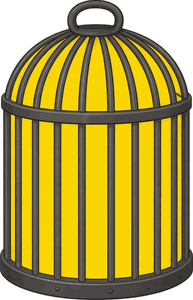
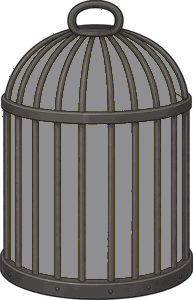
Kooiman-duw: de losse kooi grijs met doorschijnend interieur
De aangeleverde kooi-plaat was grijs met een massief gele vulling tussen de
spaken, en dat paste niet bij de ingebakken kooien van de man (grijs met een
doorschijnend donker interieur). tools/kooi_kleur.py haalt het geel eruit en
maakt er het interieur uit sprites.json van (cage_interior, dark 32,32,38 op
~50% alpha), zodat de kooi grijs is met wat doorzichtigheid tussen de spaken.
De gele bron staat nu in enemies/kooiman/bron/kooi/; de kleine set en de
offline-manifest zijn bijgewerkt.

Claude-Session: https://claude.ai/code/session_01DYQ1poLfdbX45wKY5M9znz

diff --git a/tools/kooi_kleur.py b/tools/kooi_kleur.py
@@ -1,0 +1,47 @@
+#!/usr/bin/env python3
+# De losse kooi-plaat voor de duw-lus (enemies/kooiman/kooi/kooi.png) wordt hier uit de
+# aangeleverde bron (enemies/kooiman/bron/kooi/kooi.png) gemaakt. De bron heeft grijze spaken
+# maar een MASSIEF GELE vulling tussen de spaken; dat past niet bij de ingebakken kooien van de
+# man (die zijn grijs met een doorschijnend donker interieur). Dit script haalt het geel eruit en
+# maakt er hetzelfde interieur van als in sprites.json staat (cage_interior: dark 32,32,38 at ~50%
+# alpha): grijs met wat doorzichtigheid tussen de spaken, zodat je er doorheen kijkt. De grijze
+# spaken, de rand en het hengsel blijven zoals ze zijn.
+#
+# Verandert de bron, draai dit opnieuw, en daarna gen-klein.py en gen-offline-manifest.py.
+from PIL import Image
+import os
+
+HIER = os.path.dirname(os.path.dirname(os.path.abspath(__file__)))
+BRON = os.path.join(HIER, 'enemies/kooiman/bron/kooi/kooi.png')
+UIT  = os.path.join(HIER, 'enemies/kooiman/kooi/kooi.png')
+
+INTERIEUR = (32, 32, 38)   # de donkere interieurkleur uit sprites.json
+ALFA      = 128            # ~50%: doorschijnend tussen de spaken
+
+
+def is_geel(r, g, b):
+    # geel: rood en groen hoog, blauw duidelijk lager. De grijze spaken (r=g=b) en de donkere
+    # randjes vallen hier buiten en blijven dus staan.
+    return r > 110 and g > 90 and (r - b) > 55 and (g - b) > 45
+
+
+def main():
+    im = Image.open(BRON).convert('RGBA')
+    px = im.load()
+    W, H = im.size
+    n = 0
+    for y in range(H):
+        for x in range(W):
+            r, g, b, a = px[x, y]
+            if a < 10:
+                continue
+            if is_geel(r, g, b):
+                px[x, y] = (INTERIEUR[0], INTERIEUR[1], INTERIEUR[2], ALFA)
+                n += 1
+    os.makedirs(os.path.dirname(UIT), exist_ok=True)
+    im.save(UIT)
+    print('geschreven: %s (%d gele pixels naar doorschijnend donkergrijs)' % (UIT, n))
+
+
+if __name__ == '__main__':
+    main()

diff --git a/CLAUDE.md b/CLAUDE.md
@@ -1407,6 +1407,14 @@ tekent die map op de elite-vlag (zie "de bandiet"). Verandert een bronframe, dra
 script dan opnieuw, en daarna `gen-klein.py` en `gen-offline-manifest.py`. De elite-set
 staat wel in de kleine set (zoals de gewone bandiet).
 
+De losse kooi-plaat van de kooiman (de duw-lus) komt uit `tools/kooi_kleur.py`: de aangeleverde
+bron `enemies/kooiman/bron/kooi/kooi.png` heeft grijze spaken maar een massief gele vulling; het
+script haalt het geel eruit en maakt er het interieur uit `sprites.json` van (`cage_interior`, dark
+32,32,38 op ~50% alpha), zodat de kooi grijs is met wat doorzichtigheid tussen de spaken, net als de
+ingebakken kooien van de man. Het schrijft `enemies/kooiman/kooi/kooi.png`. Verandert de bron, draai
+het opnieuw, en daarna `gen-klein.py` en `gen-offline-manifest.py`. De plaat staat wel in de kleine
+set; de bron in `bron/` niet.
+
 Winterversies komen uit `tools/sneeuw.py` (rotsen en klimstukken), `sneeuw_bg.py`
 (achtergrondpanelen), `sneeuw_dorp.py` (hutten, boom, struik) en `winter_art.py`
 (dieren, grond, gras). Verandert een origineel, draai het bijbehorende script dan

diff --git a/enemies/kooiman/duw/LEESMIJ.md b/enemies/kooiman/duw/LEESMIJ.md
@@ -1,7 +1,8 @@
 # Kooiman - duw-mechaniek
 
 > In deze repo: de 28 frames staan in `enemies/kooiman/duw/`, de losse kooi in
-> `enemies/kooiman/kooi/kooi.png`, en de set is als `duw` toegevoegd aan
+> `enemies/kooiman/kooi/kooi.png` (grijs met doorschijnend interieur, uit `tools/kooi_kleur.py`;
+> de aangeleverde gele versie staat als bron in `bron/kooi/kooi.png`), en de set is als `duw` toegevoegd aan
 > `enemies/kooiman/sprites.json` (eigen canvas en de kooi-uitlijning onder `kooi_laag`).
 > In de HTML is het de gevechts-loop van de **duel-kooiman** nadat de kooi open is (hij
 > duwt de lege kooi voor zich uit als schild); hij is dan alleen in zijn herstel raakbaar.
